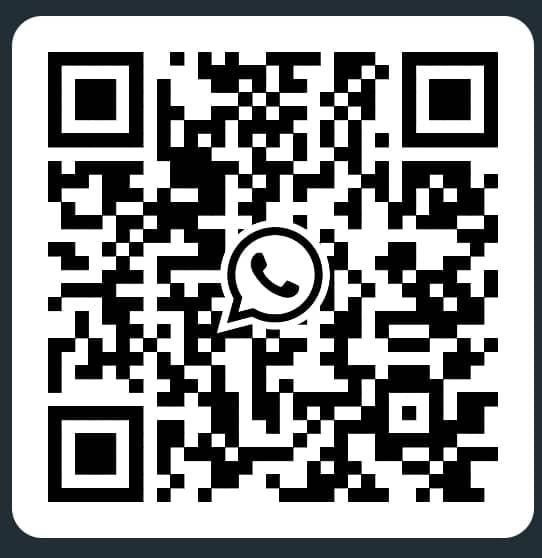
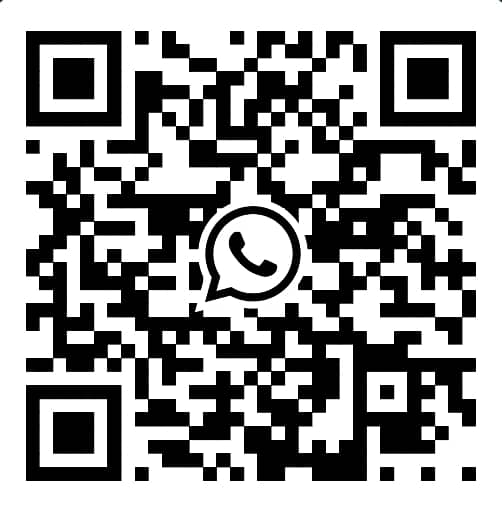
done

diff --git a/courses pages/frontendCourse.html b/courses pages/frontendCourse.html
@@ -130,12 +130,15 @@
             <div class="row position-relative z-1  gap-4 gap-lg-0">
                 <div class=" col-lg-7 col-12 order-lg-0 order-1 py-3 pt-0" data-aos="fade-right">
 
-                    <h1 class=" textOrange mb-4 fw-bold" data-currentLangeuage="en" data-arText="تطوير الويب للواجهة الأمامية" data-enText="Frontend Web Development">Frontend Web Development</h1>
+                    <h1 class=" textOrange mb-4 fw-bold" data-currentLangeuage="en"
+                        data-arText="تطوير الويب للواجهة الأمامية" data-enText="Frontend Web Development">Frontend Web
+                        Development</h1>
                     <div class="course-introducer-box d-flex gap-4 mb-4">
-                        <img style="object-position: top;" width="200" height="200" class="introducer-img object-fit-cover" src="/imgs/imagecompressor/yame.jpeg"
-                            alt="">
+                        <img style="object-position: top;" width="200" height="200"
+                            class="introducer-img object-fit-cover" src="/imgs/imagecompressor/yame.jpeg" alt="">
                         <div>
-                            <h5 class="introducer-name text-white mb-0 " data-currentLangeuage="en" data-enText="By Yamen Nasri" data-arText="من يامن نصري">By Yamen Nasri</h5>
+                            <h5 class="introducer-name text-white mb-0 " data-currentLangeuage="en"
+                                data-enText="By Yamen Nasri" data-arText="من يامن نصري">By Yamen Nasri</h5>
                             <ul class="introducer-rate d-flex gap-1 m-0 list-unstyled">
                                 <li><svg xmlns="http://www.w3.org/2000/svg" width="16" height="16" fill="orange"
                                         class="bi bi-star-fill" viewBox="0 0 16 16">
@@ -163,15 +166,18 @@
                                             d="M3.612 15.443c-.386.198-.824-.149-.746-.592l.83-4.73L.173 6.765c-.329-.314-.158-.888.283-.95l4.898-.696L7.538.792c.197-.39.73-.39.927 0l2.184 4.327 4.898.696c.441.062.612.636.282.95l-3.522 3.356.83 4.73c.078.443-.36.79-.746.592L8 13.187l-4.389 2.256z" />
                                     </svg></li>
                             </ul>
-                            <p class="text-white" data-currentLangeuage="en" data-enText="Duration : 4 weeks (+15 hours)" data-arText="المدة : اربعة اسابيع (+15 ساعة)">Duration : 4 weeks (+15 hours)</p>
-                            <p class="text-white" data-currentLangeuage="en" data-enText="Rates : +30" data-arText="التقيم: +30">Rates : +30</p>
+                            <p class="text-white" data-currentLangeuage="en"
+                                data-enText="Duration : 4 weeks (+15 hours)"
+                                data-arText="المدة : اربعة اسابيع (+15 ساعة)">Duration : 4 weeks (+15 hours)</p>
+                            <p class="text-white" data-currentLangeuage="en" data-enText="Rates : +30"
+                                data-arText="التقيم: +30">Rates : +30</p>
 
                         </div>
                     </div>
                     <p class="text-white mb-3" data-currentLangeuage="en" data-enText="Enroll now in our Frontend Web Development course to master HTML, and
                     CSS. From beginner to expert, you'll gain the vital skills needed to excel in frontend web
                     development. Explore diverse technologies and complete hands-on projects to enhance your
-                    learning experience." 
+                    learning experience."
                         data-arText="قم بالتسجيل الآن في دورة تطوير الويب  الخاصة بنا لإتقان . من المبتدئ إلى الخبير، ستكتسب المهارات الحيوية اللازمة للتفوق في تطوير الويب الأمامي. استكشف تقنيات متنوعة وأكمل المشاريع العملية لتعزيز تجربة التعلم الخاصة بك.">
                         Enroll now in our Frontend Web Development course to master HTML, and
                         CSS. From beginner to expert, you'll gain the vital skills needed to excel in frontend web
@@ -195,8 +201,12 @@
                         skills, you will be equipped to develop websites that not only look great but also perform well
                         and are optimized for search engines. Join us in this course to enhance your web development
                         skills and create impressive websites with strong performance and SEO foundations!</p>
-                    <p class="text-white" data-currentLangeuage="en" data-enText="Join our team , available seats are limited number." data-arText="انضم لفريقنا، المقاعد المتوفرة محدودة.">Join our team , available seats are limited number.</p>
-                    <p class=" mt-2" data-currentLangeuage="en" data-enText="Price : 175k sp" data-arText="السعر : 175 الف ليرة سورية" style="color: greenyellow;">Price : 175k sp</p>
+                    <p class="text-white" data-currentLangeuage="en"
+                        data-enText="Join our team , available seats are limited number."
+                        data-arText="انضم لفريقنا، المقاعد المتوفرة محدودة.">Join our team , available seats are limited
+                        number.</p>
+                    <p class=" mt-2" data-currentLangeuage="en" data-enText="Price : 175k sp"
+                        data-arText="السعر : 175 الف ليرة سورية" style="color: greenyellow;">Price : 175k sp</p>
 
 
 
@@ -245,7 +255,7 @@
                                 data-arText="أو استخدم الرابط أدناه للانضمام إلى المجموعة">Or use the link below to join
                                 the
                                 group.</h6>
-                            <a href="https://chat.whatsapp.com/Lqxl1qibqaQ5kC0wAUtooC" class="my-2 d-block">WHATSAPP</a>
+                            <a href="https://chat.whatsapp.com/FGb3GfOQ1Px9tHqgt1efFI" class="my-2 d-block">WHATSAPP</a>
                             <h6 data-currentLangeuage="en" data-enText="Contact us if you have any questions."
                                 data-arText="تواصل معنا إذا كان عندك أي أسئلة." class="text-white">Contact us if you
                                 have any
@@ -257,11 +267,12 @@
 
 
 
-                    <h3 class="mt-5 text-white" data-currentLangeuage="en" data-enText="Comments(3)" data-arText="التعليقات(3)">Comments(3)</h3>
+                    <h3 class="mt-5 text-white" data-currentLangeuage="en" data-enText="Comments(3)"
+                        data-arText="التعليقات(3)">Comments(3)</h3>
                     <div class="comments  text-white d-flex flex-column gap-5 m-4">
                         <div class="comment d-flex align-items-center gap-3">
-                            <img width="50" class="" height="50"
-                                src="/imgs/imagecompressor/logoOrange.png" alt="" class="image-profile object-fit-cover">
+                            <img width="50" class="" height="50" src="/imgs/imagecompressor/logoOrange.png" alt=""
+                                class="image-profile object-fit-cover">
                             <div class="comment-content ">
                                 <div class="comment-details d-flex justify-content-between mb-2">
                                     <h6 class="m-0">Mazen Assad</h6>
@@ -281,8 +292,8 @@
                             </div>
                         </div>
                         <div class="comment d-flex align-items-center gap-3">
-                            <img width="50" class="" height="50"
-                                src="/imgs/imagecompressor/logoOrange.png" alt="" class="image-profile object-fit-cover">
+                            <img width="50" class="" height="50" src="/imgs/imagecompressor/logoOrange.png" alt=""
+                                class="image-profile object-fit-cover">
                             <div class="comment-content ">
                                 <div class="comment-details d-flex justify-content-between mb-2">
                                     <h6 class="m-0">Loay_o</h6>
@@ -302,8 +313,8 @@
                             </div>
                         </div>
                         <div class="comment d-flex align-items-center gap-3">
-                            <img width="50" class="" height="50"
-                                src="/imgs/imagecompressor/logoOrange.png" alt="" class="image-profile object-fit-cover">
+                            <img width="50" class="" height="50" src="/imgs/imagecompressor/logoOrange.png" alt=""
+                                class="image-profile object-fit-cover">
                             <div class="comment-content ">
                                 <div class="comment-details d-flex justify-content-between mb-2">
                                     <h6 class="m-0">Aaa2002</h6>
@@ -335,7 +346,8 @@
 
 
 
-                    <h5 class="my-4 d-lg-none d-block text-white mt-5" data-currentLangeuage="en" data-enText="See more" data-arText="المزيد">See more</h5>
+                    <h5 class="my-4 d-lg-none d-block text-white mt-5" data-currentLangeuage="en" data-enText="See more"
+                        data-arText="المزيد">See more</h5>
                     <div class="row d-lg-none gap-5 d-flex justify-content-center flex-md-nowrap flex-wrap mb-5">
                         <div class="col-md-6 col-10">
                             <a class="suggets-img" href="/courses pages/backendCourse.html">
@@ -375,9 +387,11 @@
                 </div>
                 <div class="col-lg-5 order-lg-1 order-0 col-10 " data-aos="fade-left" data-aos-delay="1000">
                     <div class="box position-relative">
-                        <img src="/imgs/imagecompressor/feCourse-min.png" class="object-fit-cover" alt="products header imge">
+                        <img src="/imgs/imagecompressor/feCourse-min.png" class="object-fit-cover"
+                            alt="products header imge">
                     </div>
-                    <h5 class="my-4 d-lg-block d-none text-white mt-5"  data-currentLangeuage="en" data-enText="See more" data-arText="المزيد">See more</h5>
+                    <h5 class="my-4 d-lg-block d-none text-white mt-5" data-currentLangeuage="en" data-enText="See more"
+                        data-arText="المزيد">See more</h5>
                     <div class="row d-lg-flex d-none justify-content-center flex-md-nowrap flex-wrap mb-4">
                         <div class="col">
                             <a class="suggets-img" href="/courses pages/backendCourse.html">
@@ -516,7 +530,7 @@
 <script src="https://unpkg.com/aos@2.3.1/dist/aos.js"></script>
 <script>
     // AOS.init();
-    AOS.init({ disable: 'mobile' , once:true });
+    AOS.init({ disable: 'mobile', once: true });
 </script>
 
 

diff --git a/courses.html b/courses.html
@@ -411,8 +411,8 @@
                         data-enText="Or use the link below to join the group."
                         data-arText="أو استخدم الرابط أدناه للانضمام إلى المجموعة">Or use the link below to join the
                         group.</h6>
-                    <a href="https://chat.whatsapp.com/Lqxl1qibqaQ5kC0wAUtooC" class="my-2 d-block">WHATSAPP</a>
-                    <h6 data-currentLangeuage="en" data-enText="Contact us if you have any questions."
+                        <a href="https://chat.whatsapp.com/FGb3GfOQ1Px9tHqgt1efFI" class="my-2 d-block">WHATSAPP</a>
+                        <h6 data-currentLangeuage="en" data-enText="Contact us if you have any questions."
                         data-arText="تواصل معنا إذا كان عندك أي أسئلة." class="text-white">Contact us if you have any
                         questions.</h6>
                     <p class="textOrange">+963 993 277 655</p>

diff --git a/courses pages/backendCourse.html b/courses pages/backendCourse.html
@@ -244,8 +244,8 @@
                                 data-arText="أو استخدم الرابط أدناه للانضمام إلى المجموعة">Or use the link below to join
                                 the
                                 group.</h6>
-                            <a href="https://chat.whatsapp.com/Lqxl1qibqaQ5kC0wAUtooC" class="my-2 d-block">WHATSAPP</a>
-                            <h6 data-currentLangeuage="en" data-enText="Contact us if you have any questions."
+                                <a href="https://chat.whatsapp.com/FGb3GfOQ1Px9tHqgt1efFI" class="my-2 d-block">WHATSAPP</a>
+                                <h6 data-currentLangeuage="en" data-enText="Contact us if you have any questions."
                                 data-arText="تواصل معنا إذا كان عندك أي أسئلة." class="text-white">Contact us if you
                                 have any
                                 questions.</h6>

diff --git a/courses pages/jsCourse.html b/courses pages/jsCourse.html
@@ -247,8 +247,8 @@
                                 data-arText="أو استخدم الرابط أدناه للانضمام إلى المجموعة">Or use the link below to join
                                 the
                                 group.</h6>
-                            <a href="https://chat.whatsapp.com/Lqxl1qibqaQ5kC0wAUtooC" class="my-2 d-block">WHATSAPP</a>
-                            <h6 data-currentLangeuage="en" data-enText="Contact us if you have any questions."
+                                <a href="https://chat.whatsapp.com/FGb3GfOQ1Px9tHqgt1efFI" class="my-2 d-block">WHATSAPP</a>
+                                <h6 data-currentLangeuage="en" data-enText="Contact us if you have any questions."
                                 data-arText="تواصل معنا إذا كان عندك أي أسئلة." class="text-white">Contact us if you
                                 have any
                                 questions.</h6>

diff --git a/courses pages/mobileCourse.html b/courses pages/mobileCourse.html
@@ -236,8 +236,8 @@
                                 data-arText="أو استخدم الرابط أدناه للانضمام إلى المجموعة">Or use the link below to join
                                 the
                                 group.</h6>
-                            <a href="https://chat.whatsapp.com/Lqxl1qibqaQ5kC0wAUtooC" class="my-2 d-block">WHATSAPP</a>
-                            <h6 data-currentLangeuage="en" data-enText="Contact us if you have any questions."
+                                <a href="https://chat.whatsapp.com/FGb3GfOQ1Px9tHqgt1efFI" class="my-2 d-block">WHATSAPP</a>
+                                <h6 data-currentLangeuage="en" data-enText="Contact us if you have any questions."
                                 data-arText="تواصل معنا إذا كان عندك أي أسئلة." class="text-white">Contact us if you
                                 have any
                                 questions.</h6>

diff --git a/courses pages/pbCourse.html b/courses pages/pbCourse.html
@@ -238,8 +238,8 @@
                                 data-arText="أو استخدم الرابط أدناه للانضمام إلى المجموعة">Or use the link below to join
                                 the
                                 group.</h6>
-                            <a href="https://chat.whatsapp.com/Lqxl1qibqaQ5kC0wAUtooC" class="my-2 d-block">WHATSAPP</a>
-                            <h6 data-currentLangeuage="en" data-enText="Contact us if you have any questions."
+                                <a href="https://chat.whatsapp.com/FGb3GfOQ1Px9tHqgt1efFI" class="my-2 d-block">WHATSAPP</a>
+                                <h6 data-currentLangeuage="en" data-enText="Contact us if you have any questions."
                                 data-arText="تواصل معنا إذا كان عندك أي أسئلة." class="text-white">Contact us if you
                                 have any
                                 questions.</h6>

diff --git a/courses pages/aiCourse.html b/courses pages/aiCourse.html
@@ -246,7 +246,7 @@
                                 data-arText="أو استخدم الرابط أدناه للانضمام إلى المجموعة">Or use the link below to join
                                 the
                                 group.</h6>
-                            <a href="https://chat.whatsapp.com/Lqxl1qibqaQ5kC0wAUtooC" class="my-2 d-block">WHATSAPP</a>
+                            <a href="https://chat.whatsapp.com/FGb3GfOQ1Px9tHqgt1efFI" class="my-2 d-block">WHATSAPP</a>
                             <h6 data-currentLangeuage="en" data-enText="Contact us if you have any questions."
                                 data-arText="تواصل معنا إذا كان عندك أي أسئلة." class="text-white">Contact us if you
                                 have any
